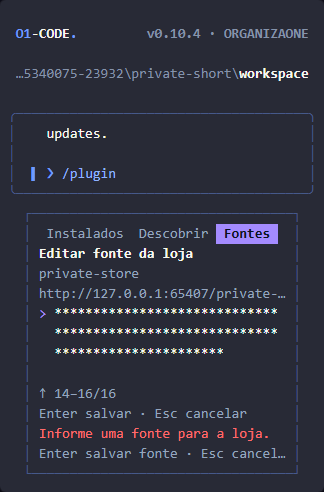
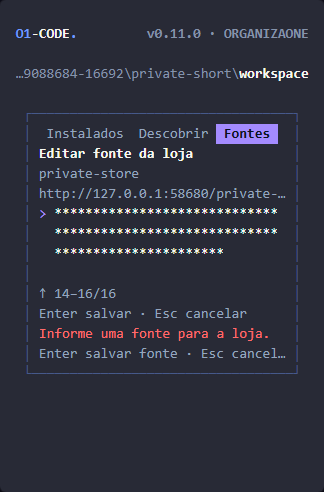
Fix Plugins: hide the conversation frame while the manager is open

diff --git a/packages/cli/src/ui/components/MainContent.test.tsx b/packages/cli/src/ui/components/MainContent.test.tsx
@@ -253,18 +253,20 @@ const createUIActions = (): UIActions =>
     refreshStatic: vi.fn(),
   }) as unknown as UIActions;
 
+const mainContentTree = (uiState: UIState) => (
+  <AppContext.Provider value={{ version: '1.2.3', startupWarnings: [] }}>
+    <UIActionsContext.Provider value={createUIActions()}>
+      <UIStateContext.Provider value={uiState}>
+        <OverflowProvider>
+          <MainContent />
+        </OverflowProvider>
+      </UIStateContext.Provider>
+    </UIActionsContext.Provider>
+  </AppContext.Provider>
+);
+
 const renderMainContent = (uiState: UIState) =>
-  render(
-    <AppContext.Provider value={{ version: '1.2.3', startupWarnings: [] }}>
-      <UIActionsContext.Provider value={createUIActions()}>
-        <UIStateContext.Provider value={uiState}>
-          <OverflowProvider>
-            <MainContent />
-          </OverflowProvider>
-        </UIStateContext.Provider>
-      </UIActionsContext.Provider>
-    </AppContext.Provider>,
-  );
+  render(mainContentTree(uiState));
 
 describe('<MainContent />', () => {
   it('renders AppHeader inside Static at the top of the static content', () => {
@@ -863,6 +865,34 @@ describe('<MainContent />', () => {
   });
 
   describe('virtual viewport path (ui.useTerminalBuffer)', () => {
+    it.each([40, 160])(
+      'hides the conversation frame while plugins are open at %i columns and restores it on close',
+      async (terminalWidth) => {
+        const state = createUIState({
+          useTerminalBuffer: true,
+          availableTerminalHeight: 10,
+          terminalWidth,
+          history: [{ id: 1, type: 'user', text: '/plugins' }],
+          messageQueue: ['run the tests'],
+        });
+        const { lastFrame, rerender } = renderMainContent(state);
+        expect(lastFrame()).toContain('HISTORY:1');
+        expect(lastFrame()).toContain('╭');
+
+        rerender(
+          mainContentTree({ ...state, isExtensionsManagerDialogOpen: true }),
+        );
+        await new Promise((resolve) => setImmediate(resolve));
+        expect(lastFrame()).toBe('');
+
+        rerender(mainContentTree(state));
+        await new Promise((resolve) => setImmediate(resolve));
+        expect(lastFrame()).toContain('HISTORY:1');
+        expect(lastFrame()).toContain('run the tests');
+        expect(lastFrame()).toContain('╭');
+      },
+    );
+
     it('draws the conversation in a bordered well with the queue at the bottom', () => {
       scrollableListPropsSpy.mockClear();
       const { lastFrame } = renderMainContent(

diff --git a/packages/cli/src/ui/components/MainContent.tsx b/packages/cli/src/ui/components/MainContent.tsx
@@ -559,6 +559,10 @@ export const MainContent = ({
     ],
   );
 
+  if (useVirtualScroll && uiState.isExtensionsManagerDialogOpen) {
+    return null;
+  }
+
   if (useVirtualScroll) {
     const scrollContainerHeight = Math.max(
       0,

diff --git a/docs/guides/TUI-DESIGN.md b/docs/guides/TUI-DESIGN.md
@@ -389,8 +389,10 @@ never leaves; it only shortens from the start.
   remain unchanged. `settings-translations.test.ts` guards this coverage.
 - **Plugin configuration** (`extensions/ExtensionsManagerDialog.tsx`):
   `/extensions`, `/plugins` and `/plugin` open the same manager, capped at its
-  existing 100-column frame. Tabs stay on one row; narrow layouts omit the switch
-  hint and extra margins before truncating labels. The parent uses the layout's
+  existing 100-column frame. In full-screen mode the conversation frame is hidden
+  while the manager is open and returns when it closes. Tabs stay on one row;
+  narrow layouts omit the switch hint and extra margins before truncating labels.
+  The parent uses the layout's
   actual dialog-height reservation and subtracts borders, tabs, footer, status
   and gaps before passing an inner budget to the editors. Short panels reduce
   gaps and keep footer/status text on one row.

diff --git a/CHANGELOG.md b/CHANGELOG.md
@@ -19,6 +19,8 @@ follows [Semantic Versioning](https://semver.org/spec/v2.0.0.html).
 
 ### Fixed
 
+- Opening the plugin manager in full-screen mode hides the conversation frame
+  above it; closing the manager restores the conversation.
 - Plugin settings preserve whitespace, quotes, comment markers, backslashes,
   tabs and multiline values when saved. Values that cannot round-trip through
   the settings file fail before replacing its contents.
